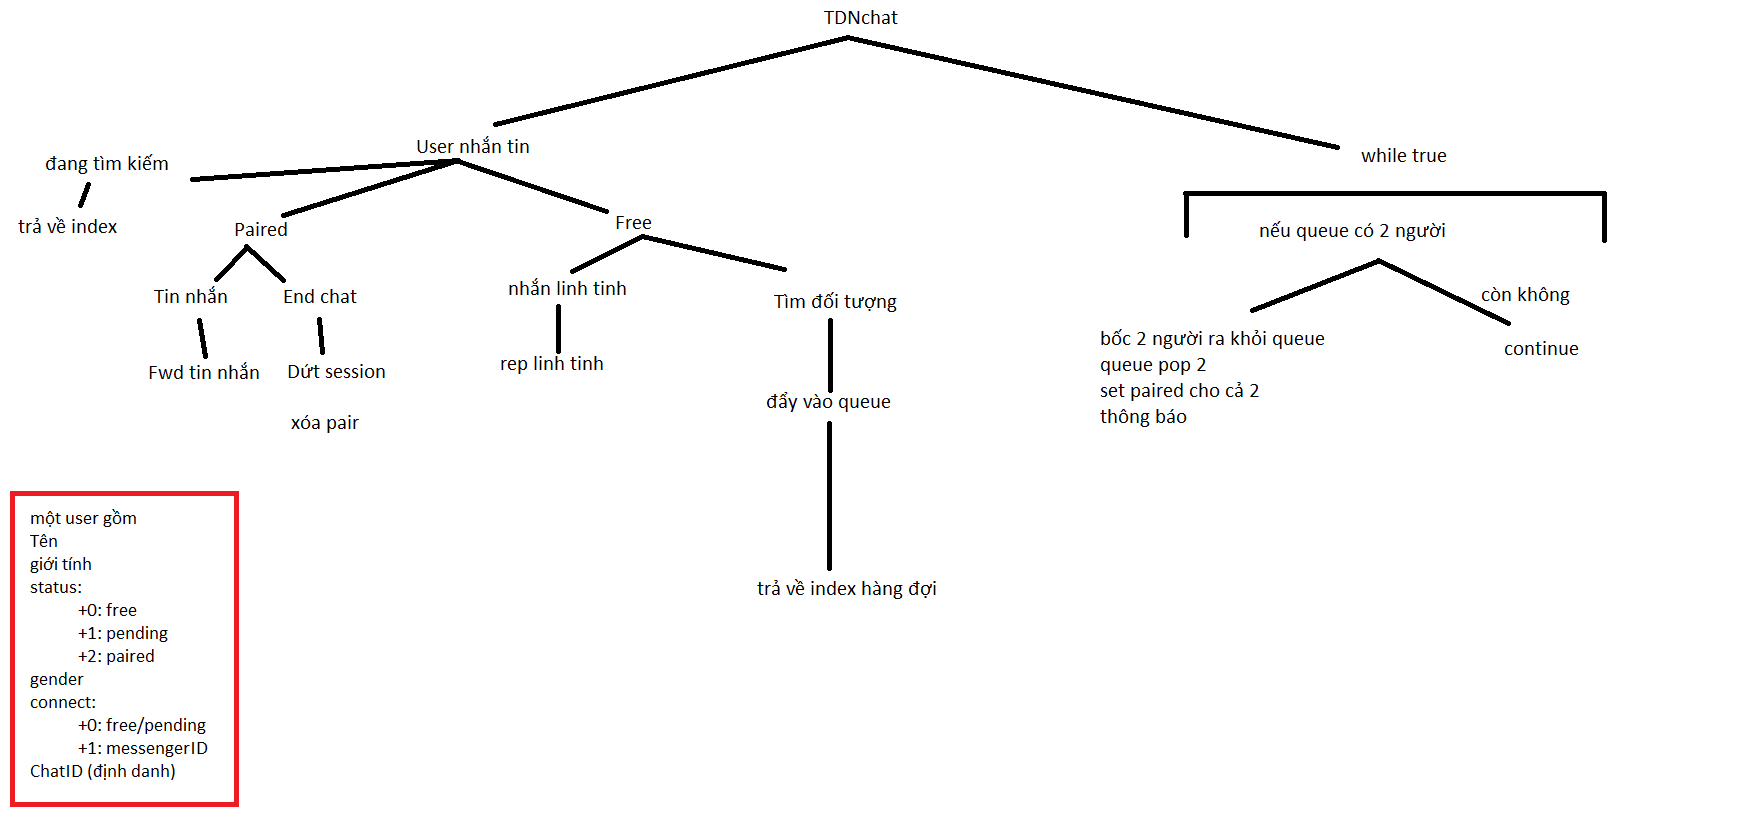
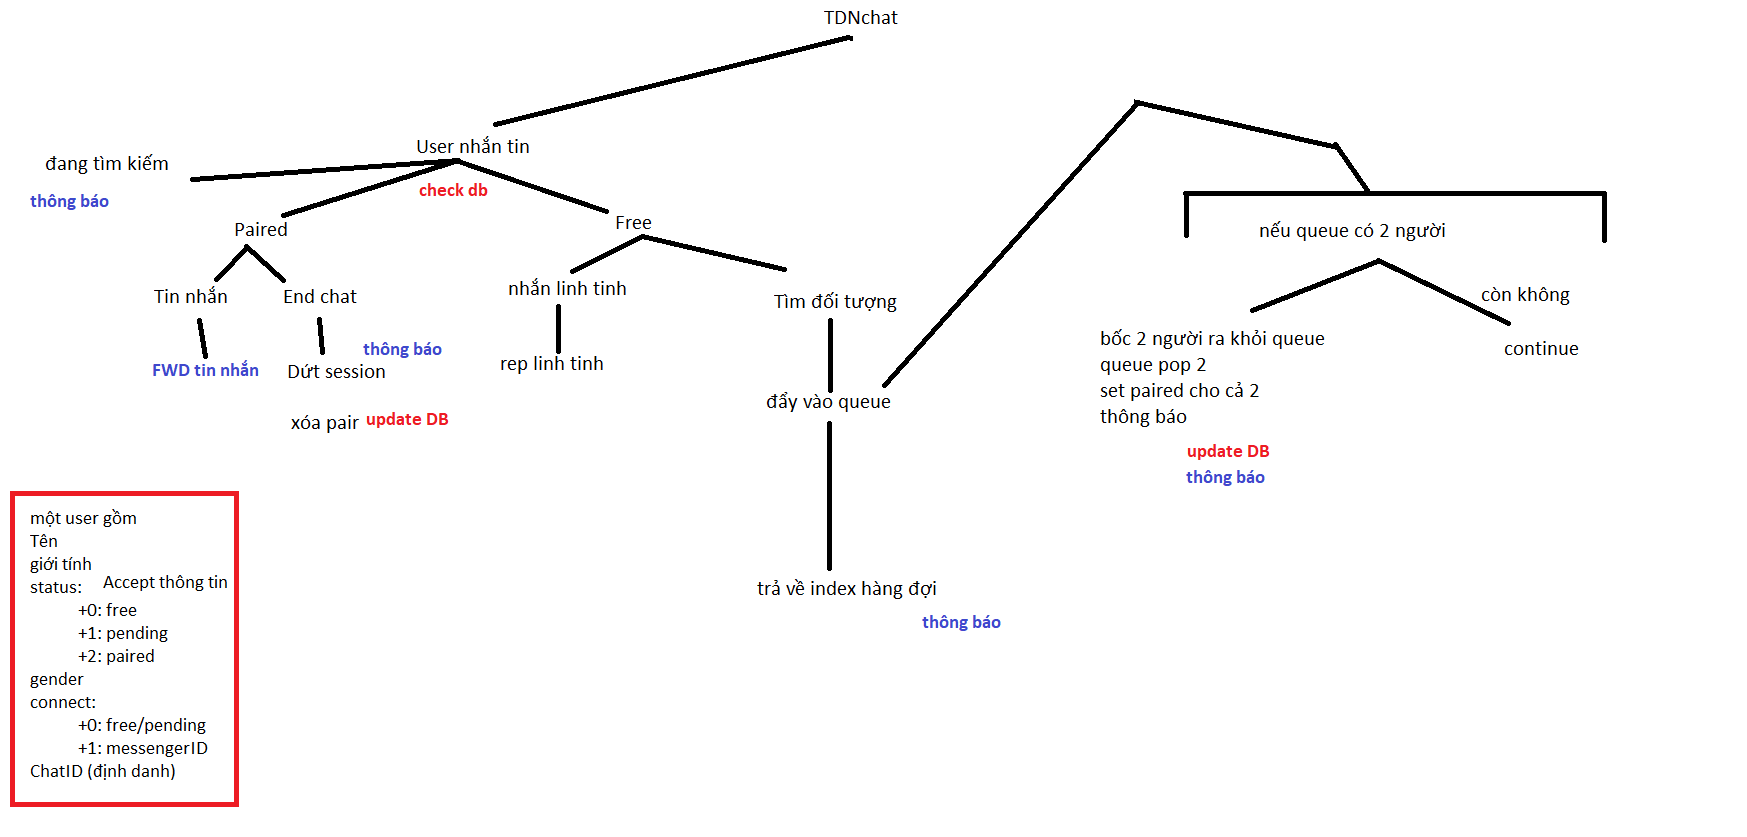
Init MongoDB

diff --git a/src/handler.js b/src/handler.js
@@ -1,5 +1,53 @@
+var qu = []
+
 function handle(name, senderID, msg, gender){
-    
+    console.log("Start handler",name," ",senderID)
+    //
+    var user = global.db.collection("User")
+    var query  = user.findOne({'_id': senderID})
+    if(query == undefined){
+    console.log(senderID)
+        user.insertOne({
+            "_id":  senderID,
+            "name": name,
+            "gender": gender,
+            "status": 0,
+            "connect": 0,
+            "chatID": 0
+        })
+    }
+    //status 0-free, 1-pending, 2-paired
+    // checkQueue(senderID,(err,res)=>{
+    //     if(err) console.error(err)
+    //     if(res.status == "Pairing"){
+    //         console.log(res.usrA," <--> ",res.usrB)
+    //     }
+    //     if(res.status == "Queuing"){
+    //         if(res.size == 1) console.log("Queuing: ",res.inline)
+    //     }
+    // })
+}
+
+function checkQueue(senderID,cb){
+    console.log("Checking queue")
+    qu.push(senderID)
+    if(qu.length > 1){
+        var usrA = qu[0], usrB = qu[1];
+        qu.shift()
+        qu.shift()
+        //pairing
+        cb("",{
+            "status": "Pairing",
+            "usrA": usrA,
+            "usrB": usrB
+        })
+    }else{
+        cb("",{
+            "status": "Queuing",
+            "size": qu.length,
+            "inline": qu[0],
+        })
+    }
 }
 
 module.exports = {

diff --git a/index.js b/index.js
@@ -1,8 +1,16 @@
 require('dotenv').config()
 var express = require('express')
 var app = express()
-var bodyparser = require('body-parser');
+var bodyparser = require('body-parser')
 var handler = require('./src/handler.js')
+var mongodb = require('mongodb')
+var MongoClient = mongodb.MongoClient
+global.db
+
+MongoClient.connect("mongodb://localhost:27017/",{ useNewUrlParser: true }, function(err, db) {
+  if(err) throw err
+  else global.db = db.db("TDNchat")
+})
 
 app.use(bodyparser.json())
 app.use(bodyparser.urlencoded({ extended: true }))
@@ -12,10 +20,13 @@ app.get('/', function (req, res) {
 })
 
 app.post('/TDNchat', function (req, res) {
-    //res.send(200)
-    console.log("ok!")
+    res.sendStatus(200)
+    console.log("Receive request")
     console.log(req.body)
-    handler.handle(req.body.name, req.body.senderID, req.body.msg, req.body.gender)
+    if(req.body.handle_token == "02sr4KvZJ4VECgsMTerD4eMJpUlJ3DVa"){
+      console.log("Token: true")
+      handler.handle(req.body.name, req.body.senderID.toString(), req.body.msg, req.body.gender)
+    }
 })
 
 app.listen(80)
